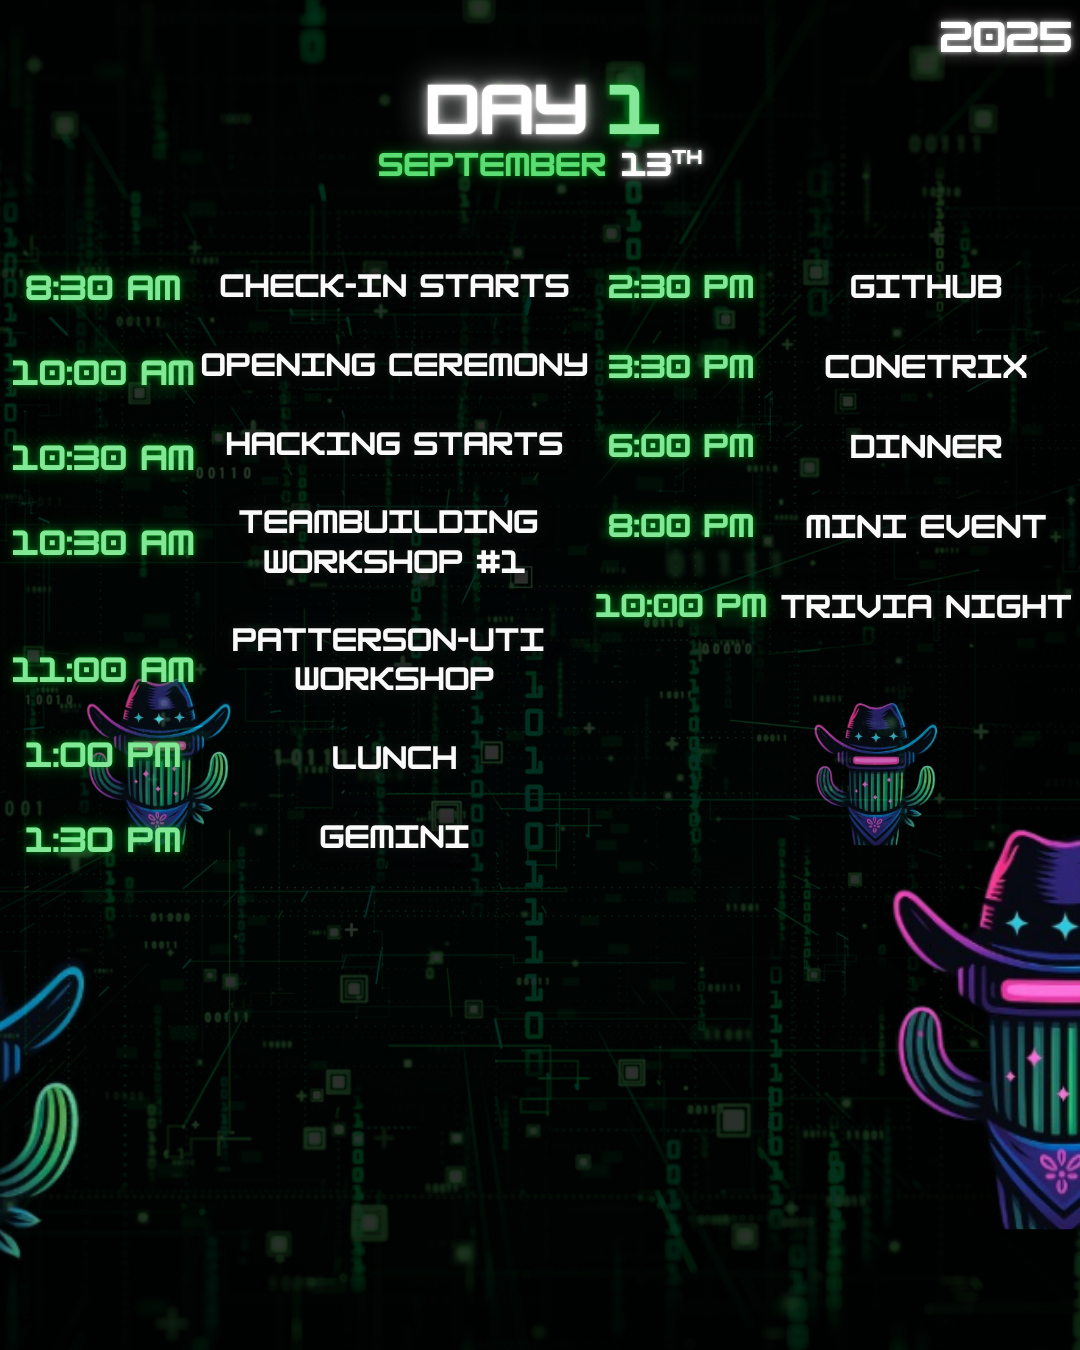
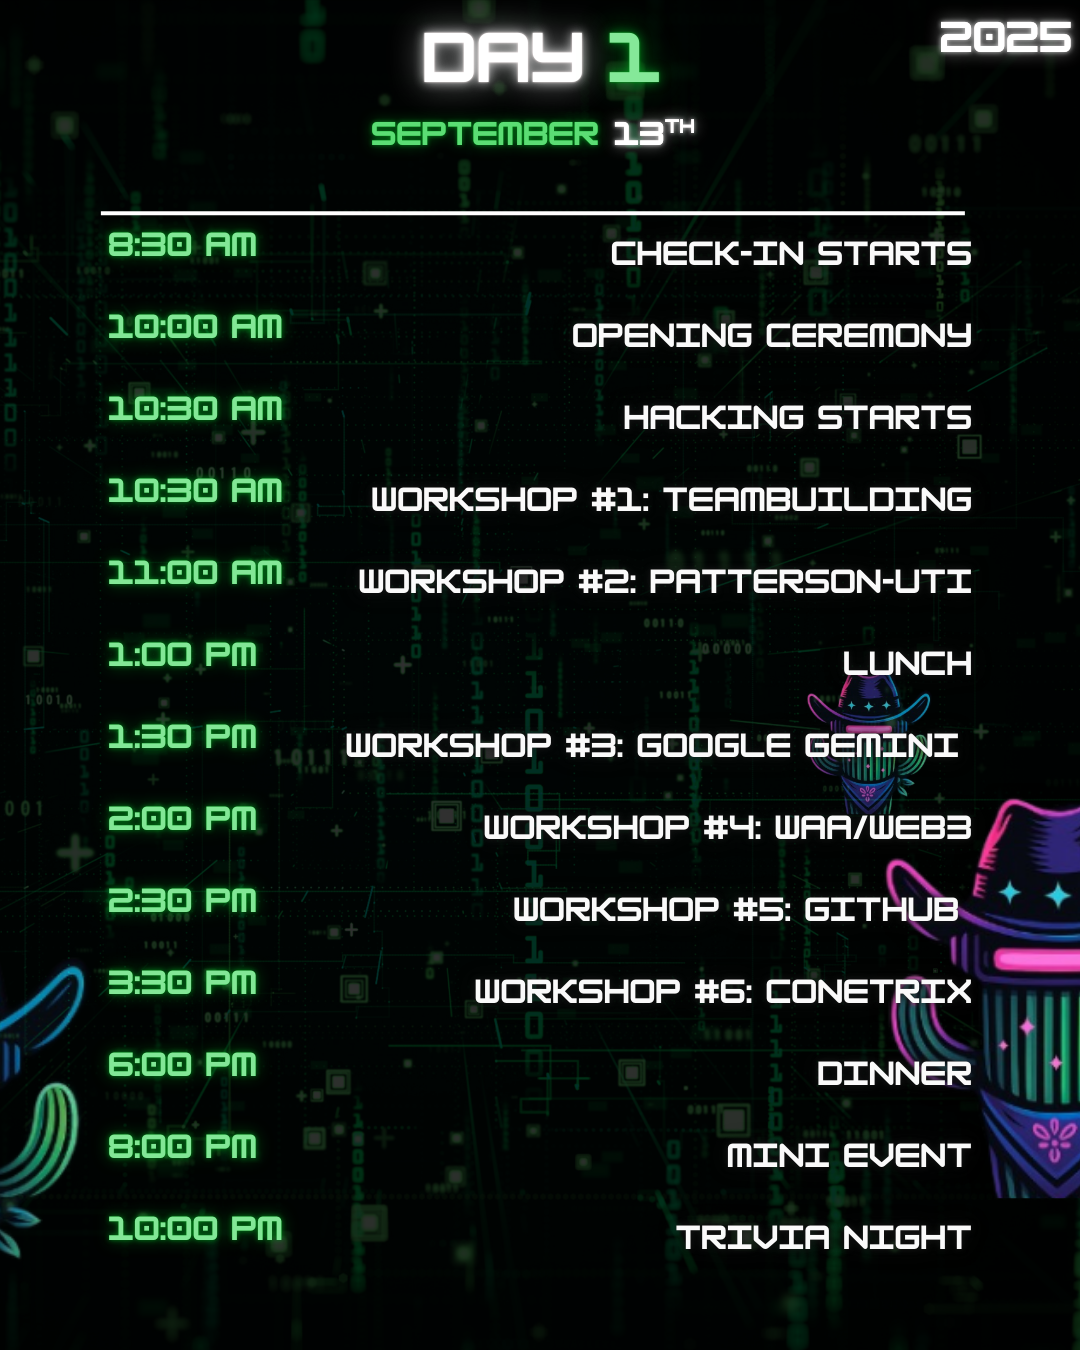
added waa and changed schedule

diff --git a/lib/constants/sponsors-2025.ts b/lib/constants/sponsors-2025.ts
@@ -6,7 +6,7 @@ import gdg from "../../assets/sponsors/GDG_NEW.png";
 import kla from "../../assets/sponsors/KLA.png";
 import mlh from "../../assets/sponsors/mlh-logo-color.png";
 import pten from "../../assets/sponsors/Patterson-lite.png";
-
+import waa from "../../assets/sponsors/WAA.png";
 // import standout from "../../assets/sponsors/stand-out-stickers-logo.png";
 import tcl from "../../assets/sponsors/TCL-lite.png";
 const sponsors2025 = [
@@ -22,6 +22,12 @@ const sponsors2025 = [
         avatarSrc: pten,
         link: "https://patenergy.com/",
         tier: "Title"
+    },
+    {
+        name: "WAA",
+        avatarSrc: waa,
+        link: "https://www.waapros.com/",
+        tier: "Thank You"
     },
     {
         name: "Major League Hacking",
